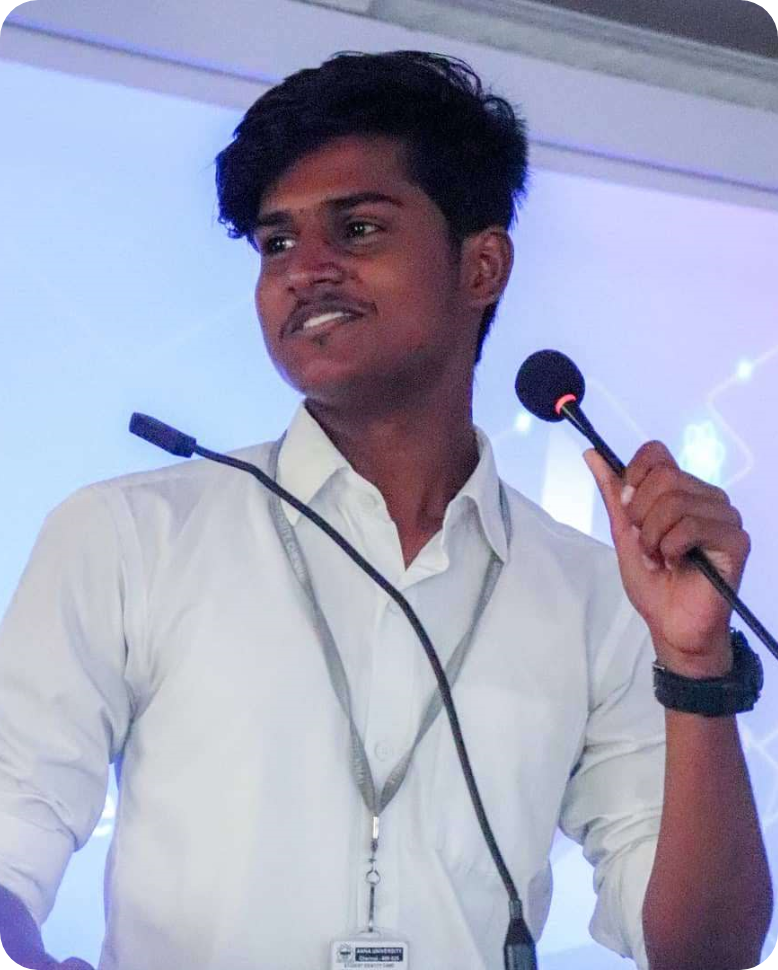
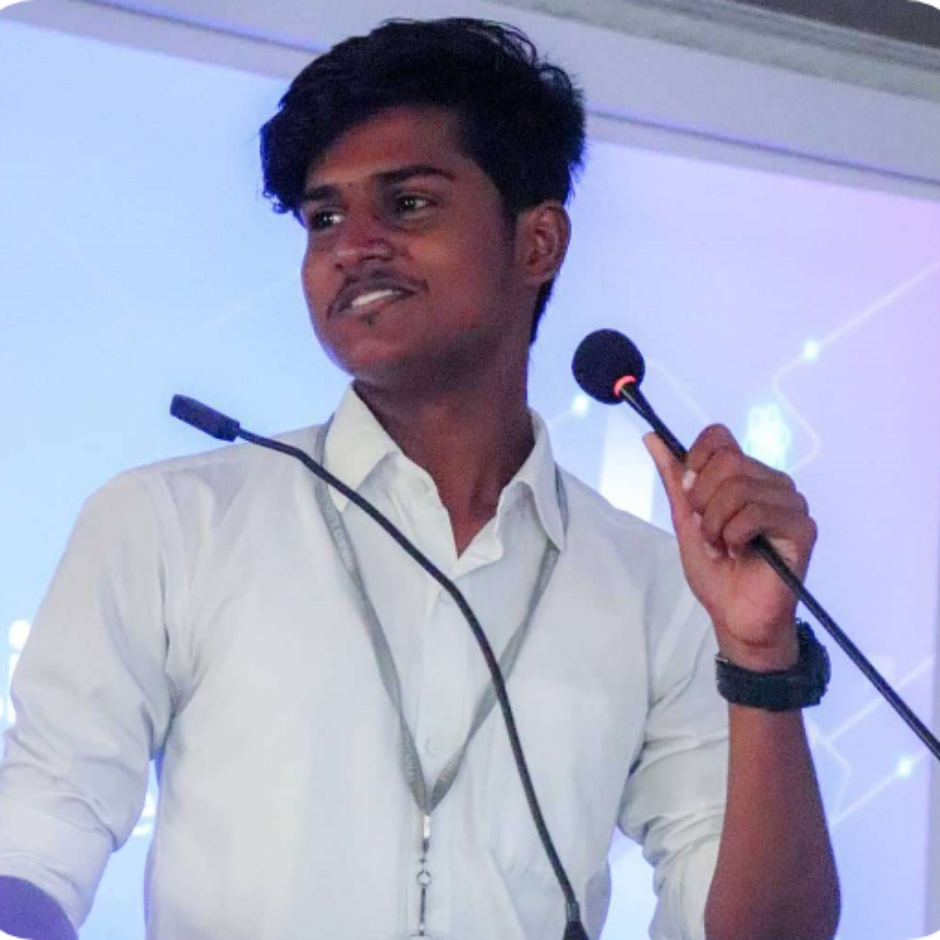
stage-4

diff --git a/src/components/Development.js b/src/components/Development.js
@@ -90,41 +90,143 @@ function Development() {
             </div>
             </div>
             </div>
+            <div className="flex">
+            <div class="flex relative pb-20 sm:items-center md:w-2/3 mx-auto">
+            <div class="h-full w-6 absolute inset-0 flex items-center justify-center">
+                <div class="h-full w-1 bg-gray-200 pointer-events-none"></div>
+            </div>
+            <div class="flex-shrink-0 w-6 h-6 rounded-full mt-10 sm:mt-0 inline-flex items-center justify-center bg-yellow-500 text-white relative z-10 title-font font-medium text-sm">5</div>
+            <div class="flex-grow md:pl-8 pl-6 flex sm:items-center items-start flex-col sm:flex-row">
+                <div class="flex-shrink-0 w-24 h-24 bg-yellow-200 text-yellow-500 rounded-full inline-flex items-center justify-center">
+                <svg width="56" height="56" viewBox="0 0 56 56" fill="none" xmlns="http://www.w3.org/2000/svg">
+                    <g clip-path="url(#clip0)">
+                    <path d="M6.68359 33H14.2852V30.3203H9.37695V21.9805H6.68359V33ZM20.4648 27.6406L21.1689 29.1309H19.7539L20.4648 27.6406ZM17.7441 33L18.5645 31.3252H22.3584L23.1787 33H26.1045L20.7793 21.9941H20.1436L14.832 33H17.7441ZM27.0684 21.9531V33H29.8369V27.2168L36.2764 33H36.8848V21.9531H34.1025V27.7568L27.6494 21.9531H27.0684ZM44.083 21.8916H43.8984C42.2031 21.8916 40.7402 22.4521 39.5508 23.5459C38.4092 24.6396 37.835 25.9727 37.835 27.4971C37.835 29.042 38.4092 30.375 39.5508 31.4482C40.7334 32.5352 42.1963 33.0889 43.8984 33.0889C45.5869 33.0889 47.0498 32.5352 48.2598 31.4414C49.3809 30.3682 50.0986 28.8711 49.9346 26.793L49.9209 26.5811H43.5361V29.0146H46.6943C46.1543 29.7734 45.1357 30.3818 43.9189 30.3818C43.0029 30.3818 42.2373 30.1016 41.6016 29.5342C40.9453 28.9668 40.6309 28.2969 40.6309 27.4971C40.6309 26.7041 40.9453 26.0342 41.6016 25.4668C42.2441 24.8926 43.0029 24.6191 43.9189 24.6191C44.8145 24.6191 45.5801 24.9199 46.2432 25.5352L46.4277 25.7061L48.4443 23.7852L48.2734 23.6211C47.2959 22.7119 45.8604 21.9668 44.0898 21.9189L44.083 21.8916Z" fill="#ECC94B"/>
+                    </g>
+                    <defs>
+                    <clipPath id="clip0">
+                    <rect width="56" height="56" fill="white"/>
+                    </clipPath>
+                    </defs>
+                </svg>
+                </div>
+                <div class="flex-grow sm:pl-6 mt-6 sm:mt-0">
+                <h2 class="font-bold title-font text-gray-900 mb-1 text-xl">Languages</h2>
+                <p class="leading-relaxed">Expertized in Python, JavaScript, Golang</p>
+                </div>
+            </div>
+            </div>
+            <div class="flex relative pb-10 sm:items-center md:w-2/3 mx-auto">
+            <div class="h-full w-6 absolute inset-0 flex items-center justify-center">
+                <div class="h-full w-1 bg-gray-200 pointer-events-none"></div>
+            </div>
+            <div class="flex-shrink-0 w-6 h-6 rounded-full mt-10 sm:mt-0 inline-flex items-center justify-center bg-yellow-500 text-white relative z-10 title-font font-medium text-sm">6</div>
+            <div class="flex-grow md:pl-8 pl-6 flex sm:items-center items-start flex-col sm:flex-row">
+                <div class="flex-shrink-0 w-24 h-24 bg-yellow-200 text-yellow-500 rounded-full inline-flex items-center justify-center">
+                <svg fill="none" stroke="#ECC94B" stroke-linecap="round" stroke-linejoin="round" stroke-width="2" class="w-12 h-12" viewBox="0 0 24 24">
+                    <path d="M12 22s8-4 8-10V5l-8-3-8 3v7c0 6 8 10 8 10z"></path>
+                </svg>
+                </div>
+                <div class="flex-grow sm:pl-6 mt-6 sm:mt-0">
+                <h2 class="font-bold title-font text-gray-900 mb-1 text-xl">Ethical Hacker</h2>
+                <p class="leading-relaxed">Completed CEHv10 Certification</p>
+                </div>
+            </div>
+            </div>
+            </div>
         </div>
         <div className="flex flex-col justify-center items-center w-9/12">
             <h1 className="text-3xl font-bold mb-6">Projects</h1>
             <div className="grid grid-cols-3 gap-8 bg-grey-100 w-full h-64">
                 <div className="col-span-1 bg-yellow-300 rounded-lg overflow-hidden transition duration-500 ease-out hover:shadow-lg transform hover:scale-110">
                     <div className="h-48 overflow-hidden">
+                        <img src={require("../statics/Blog.png")} alt="react-native-blog-app" />
+                    </div>
+                    <div className="flex flex-row justify-between items-center bg-yellow-400 w-full h-20">
+                        <div className="w-8 h-8 ml-5 mb-5 mr-2 rounded-full overflow-hidden">
+                        <svg width="28" height="28" viewBox="0 0 28 28" fill="none" xmlns="http://www.w3.org/2000/svg">
+                            <rect width="28" height="28" rx="14" fill="url(#paint0_linear)"/>
+                            <path d="M14.572 19C15.454 19 16.182 18.748 16.784 18.23C17.386 17.712 17.68 17.054 17.68 16.284C17.68 15.318 17.26 14.576 16.406 14.044C16.994 13.554 17.288 12.924 17.288 12.154C17.288 11.412 17.008 10.796 16.434 10.306C15.86 9.802 15.16 9.55 14.306 9.55H9.7V19H14.572ZM14.558 15.038C15.132 15.038 15.594 15.5 15.594 16.102C15.594 16.704 15.132 17.166 14.558 17.166H11.702V15.038H14.558ZM14.278 11.398C14.824 11.398 15.216 11.79 15.216 12.336C15.216 12.406 15.216 12.448 15.202 12.476C15.146 12.966 14.768 13.288 14.278 13.288H11.702V11.398H14.278Z" fill="white"/>
+                            <defs>
+                            <linearGradient id="paint0_linear" x1="5" y1="2.5" x2="22.5" y2="25.5" gradientUnits="userSpaceOnUse">
+                            <stop stop-color="#FDAE66"/>
+                            <stop offset="1" stop-color="#FB7756"/>
+                            </linearGradient>
+                            </defs>
+                        </svg>
+                        </div>
+                        <p className="mb-5">Blogin</p>
+                        <div className="flex justify-center items-center">
+                            <div className="w-12 h-12 mr-5 mb-5 bg-white flex justify-center items-center rounded-full">
+                            <svg width="28" height="28" viewBox="0 0 28 28" fill="none" xmlns="http://www.w3.org/2000/svg">
+                                <path d="M23.5 10C23.1022 10 22.7206 10.1603 22.4393 10.4457C22.158 10.7311 22 11.1181 22 11.5217V18.4783C22 18.8819 22.158 19.2689 22.4393 19.5543C22.7206 19.8397 23.1022 20 23.5 20C23.8978 20 24.2794 19.8397 24.5607 19.5543C24.842 19.2689 25 18.8819 25 18.4783V11.5217C25 11.1181 24.842 10.7311 24.5607 10.4457C24.2794 10.1603 23.8978 10 23.5 10V10Z" fill="#ECC94B"/>
+                                <path d="M4.5 10C4.10218 10 3.72064 10.1603 3.43934 10.4457C3.15804 10.7311 3 11.1181 3 11.5217V18.4783C3 18.8819 3.15804 19.2689 3.43934 19.5543C3.72064 19.8397 4.10218 20 4.5 20C4.89782 20 5.27936 19.8397 5.56066 19.5543C5.84196 19.2689 6 18.8819 6 18.4783V11.5217C6 11.1181 5.84196 10.7311 5.56066 10.4457C5.27936 10.1603 4.89782 10 4.5 10V10Z" fill="#ECC94B"/>
+                                <path d="M6.5 10V19.9C6.5 20.3376 6.67879 20.7573 6.99703 21.0667C7.31527 21.3762 7.74691 21.55 8.19697 21.55H9.25758V25.0562C9.25758 25.4392 9.41401 25.8064 9.69248 26.0771C9.97094 26.3479 10.3486 26.5 10.7424 26.5C11.1362 26.5 11.5139 26.3479 11.7924 26.0771C12.0708 25.8064 12.2273 25.4392 12.2273 25.0562V21.55H14.7727V25.0562C14.7727 25.4392 14.9292 25.8064 15.2076 26.0771C15.4861 26.3479 15.8638 26.5 16.2576 26.5C16.6514 26.5 17.0291 26.3479 17.3075 26.0771C17.586 25.8064 17.7424 25.4392 17.7424 25.0562V21.55H18.803C19.2531 21.55 19.6847 21.3762 20.003 21.0667C20.3212 20.7573 20.5 20.3376 20.5 19.9V10H6.5Z" fill="#ECC94B"/>
+                                <path d="M20.3026 8.16806C19.8665 6.54049 18.8276 5.15021 17.4258 4.23557C17.3473 4.18445 17.2677 4.13481 17.187 4.08665C17.1064 4.03849 17.0254 3.99126 16.944 3.94495L17.2136 3.4404L18.0567 1.84785C18.0709 1.82094 18.08 1.79134 18.0833 1.76075C18.0866 1.73017 18.0841 1.6992 18.076 1.66962C18.0679 1.64004 18.0542 1.61244 18.0359 1.58838C18.0175 1.56433 17.9949 1.5443 17.9691 1.52945C17.9367 1.51039 17.9002 1.50025 17.863 1.5C17.823 1.49993 17.7838 1.51108 17.7494 1.53228C17.7149 1.55349 17.6866 1.58398 17.6672 1.62058L16.813 3.23481L16.5434 3.74325C16.4585 3.70379 16.3726 3.66656 16.2856 3.63211C16.1986 3.59766 16.1115 3.56154 16.0229 3.52876C14.3918 2.92763 12.6135 2.92763 10.9824 3.52876C10.8939 3.56173 10.8064 3.59618 10.7197 3.63211C10.6327 3.66879 10.5468 3.70602 10.4619 3.74325L10.1923 3.23481L9.3381 1.62336C9.30854 1.57054 9.26044 1.53193 9.20406 1.51576C9.14769 1.49959 9.08751 1.50715 9.03638 1.53682C8.98526 1.56649 8.94724 1.61593 8.93045 1.67456C8.91366 1.7332 8.91943 1.79639 8.94652 1.85063L9.78538 3.4404L10.0549 3.94495C9.9725 3.99015 9.89114 4.03664 9.81085 4.08443C9.73055 4.13222 9.65132 4.1826 9.57314 4.23557C8.1724 5.15021 7.13246 6.54049 6.69738 8.16639C6.57706 8.60018 6.51072 9.04842 6.5 9.5H20.5C20.4891 9.04898 20.4228 8.60131 20.3026 8.16806V8.16806ZM10.316 7.27898C10.19 7.27898 10.0669 7.23987 9.96223 7.16661C9.85753 7.09334 9.77592 6.98919 9.72773 6.86735C9.67954 6.74551 9.66693 6.61144 9.6915 6.48209C9.71606 6.35274 9.7767 6.23393 9.86575 6.14067C9.95479 6.04742 10.0682 5.98391 10.1917 5.95818C10.3153 5.93245 10.4433 5.94566 10.5596 5.99613C10.676 6.0466 10.7754 6.13206 10.8454 6.24172C10.9153 6.35137 10.9527 6.48029 10.9527 6.61218C10.9527 6.78902 10.8856 6.95863 10.7662 7.08368C10.6468 7.20873 10.4848 7.27898 10.316 7.27898ZM16.683 7.27898C16.557 7.27898 16.4339 7.23987 16.3292 7.16661C16.2245 7.09334 16.1429 6.98919 16.0947 6.86735C16.0466 6.74551 16.0339 6.61144 16.0585 6.48209C16.0831 6.35274 16.1437 6.23393 16.2328 6.14067C16.3218 6.04742 16.4353 5.98391 16.5588 5.95818C16.6823 5.93245 16.8103 5.94566 16.9266 5.99613C17.043 6.0466 17.1424 6.13206 17.2124 6.24172C17.2823 6.35137 17.3197 6.48029 17.3197 6.61218C17.3197 6.78902 17.2526 6.95863 17.1332 7.08368C17.0138 7.20873 16.8518 7.27898 16.683 7.27898Z" fill="#ECC94B"/>
+                            </svg>
+                            </div>
+                            <div className="w-12 h-12 mr-5 mb-5 bg-white flex justify-center items-center rounded-full">
+                            <svg width="28" height="28" viewBox="0 0 28 28" fill="none" xmlns="http://www.w3.org/2000/svg">
+                                <path d="M1.61855 20.2991H3.72726V11.4304H1.61855V20.2991V20.2991ZM2.66868 10.2674C3.32924 10.2674 3.84583 9.76536 3.84583 9.13787C3.84583 8.50199 3.32924 8 2.66868 8C2.01659 8 1.5 8.50201 1.5 9.13787C1.5 9.76538 2.01659 10.2674 2.66868 10.2674ZM10.7481 8.02504C7.18286 8.02504 4.94701 10.4263 4.94701 14.2667C4.94701 18.1071 7.18264 20.5 10.7481 20.5C14.3049 20.5 16.5408 18.1071 16.5408 14.2667C16.5408 10.4263 14.3051 8.02504 10.7481 8.02504V8.02504ZM10.7481 9.86573C12.9246 9.86573 14.3134 11.5726 14.3134 14.2667C14.3134 16.9524 12.9245 18.6592 10.7481 18.6592C8.56322 18.6592 7.18286 16.9524 7.18286 14.2667C7.18286 11.5726 8.56326 9.86573 10.7481 9.86573ZM17.4303 16.9022C17.5234 19.1279 19.3696 20.5 22.1812 20.5C25.1368 20.5 27 19.0609 27 16.7684C27 14.9695 25.9499 13.9572 23.4686 13.3966L22.0628 13.0787C20.5638 12.7273 19.9456 12.2587 19.9456 11.4555C19.9456 10.4515 20.8771 9.7822 22.2575 9.7822C23.6549 9.7822 24.6117 10.4599 24.7134 11.5894H26.7967C26.7459 9.46425 24.9675 8.0251 22.2745 8.0251C19.6153 8.0251 17.7267 9.47254 17.7267 11.6145C17.7267 13.338 18.7938 14.409 21.0464 14.9194L22.63 15.2875C24.1713 15.6473 24.798 16.1493 24.798 17.0194C24.798 18.0234 23.7733 18.743 22.2998 18.743C20.8093 18.743 19.6831 18.0151 19.5476 16.9023H17.4304L17.4303 16.9022Z" fill="#ECC94B"/>
+                            </svg>
+                            </div>
+                        </div>
+                    </div>
+                </div>
+                <div className="col-span-1 bg-yellow-300 rounded-lg overflow-hidden transition duration-500 ease-out hover:shadow-lg transform hover:scale-110">
+                    <div className="h-48 overflow-hidden">
                         <img src={require("../statics/dev-infomatte.jpg")} alt="dev-infomatte" />
                     </div>
-                    <div className="flex flex-row justify-start  items-center bg-yellow-400 w-full h-20">
+                    <div className="flex flex-row justify-between  items-center bg-yellow-400 w-full h-20">
                         <div className="w-8 h-8 ml-5 mb-5 mr-2 rounded-full overflow-hidden">
                             <img src="https://avatars2.githubusercontent.com/u/60610891?s=460&u=ba9bbe6fddfbf4ce9a37cfc8bd40d7dde3cee537&v=4" alt="dev-infomatte" />
                         </div>
                         <p className="mb-5">Infomatte.in</p>
+                        <div className="flex justify-center items-center">
+                            <div className="w-12 h-12 mr-5 mb-5 bg-white flex justify-center items-center rounded-full">
+                            <svg width="28" height="28" viewBox="0 0 28 28" fill="none" xmlns="http://www.w3.org/2000/svg">
+                                <path d="M14 1C21.1794 1 27 6.82062 27 14C27 21.1794 21.1794 27 14 27C6.82062 27 1 21.1794 1 14C1 6.82062 6.82062 1 14 1Z" stroke="#ECC94B" stroke-miterlimit="10"/>
+                                <path d="M14 1C17.6078 1 21 6.82062 21 14C21 21.1794 17.6078 27 14 27C10.3922 27 7 21.1794 7 14C7 6.82062 10.3922 1 14 1Z" stroke="#ECC94B" stroke-miterlimit="10"/>
+                                <path d="M23 5C20.5181 6.87933 17.3937 8 14 8C10.6063 8 7.48186 6.87933 5 5" stroke="#ECC94B" stroke-linecap="round" stroke-linejoin="round"/>
+                                <path d="M5 23C7.48186 21.7471 10.6063 21 14 21C17.3937 21 20.5181 21.7471 23 23" stroke="#ECC94B" stroke-linecap="round" stroke-linejoin="round"/>
+                                <path d="M14 1V27" stroke="#ECC94B" stroke-miterlimit="10"/>
+                                <path d="M1 14H27" stroke="#ECC94B" stroke-miterlimit="10"/>
+                            </svg>
+                            </div>
+                        </div>
                     </div>
                 </div>
                 <div className="col-span-1 bg-yellow-300 rounded-lg overflow-hidden transition duration-500 ease-out hover:shadow-lg transform hover:scale-110">
                     <div className="h-48 overflow-hidden">
-                        <img src={require("../statics/dev-infomatte.jpg")} alt="dev-infomatte" />
+                        <img src={require("../statics/Team-Logger.png")} alt="team-logger-desktop-software" />
                     </div>
-                    <div className="flex flex-row justify-start  items-center bg-yellow-400 w-full h-20">
+                    <div className="flex flex-row justify-between  items-center bg-yellow-400 w-full h-20">
                         <div className="w-8 h-8 ml-5 mb-5 mr-2 rounded-full overflow-hidden">
-                            <img src="https://avatars2.githubusercontent.com/u/60610891?s=460&u=ba9bbe6fddfbf4ce9a37cfc8bd40d7dde3cee537&v=4" alt="dev-infomatte" />
+                        <svg width="28" height="28" viewBox="0 0 28 28" fill="none" xmlns="http://www.w3.org/2000/svg">
+                            <rect width="28" height="28" rx="14" fill="url(#paint1_linear)"/>
+                            <path d="M17.8364 18.106C18.8087 18.8975 19.3845 19.6564 19.3845 21.0002" stroke="white" stroke-linecap="round" stroke-linejoin="round"/>
+                            <path d="M10.1636 18.106C9.1913 18.8975 8.61548 19.6561 8.61548 21.0002" stroke="white" stroke-linecap="round" stroke-linejoin="round"/>
+                            <path d="M18.3076 12.3846C19.2799 11.593 19.3845 10.4976 19.3845 9.15381" stroke="white" stroke-linecap="round" stroke-linejoin="round"/>
+                            <path d="M9.6924 12.3173C8.72014 11.5257 8.61548 10.4979 8.61548 9.15381" stroke="white" stroke-linecap="round" stroke-linejoin="round"/>
+                            <path d="M20.9999 15.0815H18.3076" stroke="white" stroke-linecap="round" stroke-linejoin="round"/>
+                            <path d="M9.69231 15.0815H7" stroke="white" stroke-linecap="round" stroke-linejoin="round"/>
+                            <path d="M14 11.8462V20.4616" stroke="white" stroke-linecap="round" stroke-linejoin="round"/>
+                            <path d="M14.0001 20.4615C11.6308 20.4615 9.69238 18.5231 9.69238 16.1538V12.9207C9.69238 10.7309 11.6308 9.68994 14.0001 9.68994C16.3693 9.68994 18.3078 10.5515 18.3078 12.9207V16.1538C18.3078 18.5231 16.3693 20.4615 14.0001 20.4615Z" stroke="white" stroke-linecap="round" stroke-linejoin="round"/>
+                            <path d="M11.423 10.2146C11.3557 10.0457 11.3167 9.86685 11.3076 9.68524C11.3095 8.97364 11.593 8.29173 12.0962 7.78855C12.5993 7.28537 13.2813 7.00187 13.9929 7H14.007C14.7186 7.00187 15.4005 7.28537 15.9037 7.78855C16.4069 8.29173 16.6904 8.97364 16.6922 9.68524C16.6857 9.85057 16.6502 10.0135 16.5872 10.1665" stroke="white" stroke-linecap="round" stroke-linejoin="round"/>
+                            <defs>
+                            <linearGradient id="paint1_linear" x1="5" y1="2.5" x2="22.5" y2="25.5" gradientUnits="userSpaceOnUse">
+                            <stop stop-color="#06FF40"/>
+                            <stop offset="1" stop-color="#00C868"/>
+                            </linearGradient>
+                            </defs>
+                        </svg>
                         </div>
-                        <p className="mb-5">Blogin</p>
-                    </div>
-                </div>
-                <div className="col-span-1 bg-yellow-300 rounded-lg overflow-hidden transition duration-500 ease-out hover:shadow-lg transform hover:scale-110">
-                    <div className="h-48 overflow-hidden">
-                        <img src={require("../statics/dev-infomatte.jpg")} alt="dev-infomatte" />
-                    </div>
-                    <div className="flex flex-row justify-start  items-center bg-yellow-400 w-full h-20">
-                        <div className="w-8 h-8 ml-5 mb-5 mr-2 rounded-full overflow-hidden">
-                            <img src="https://avatars2.githubusercontent.com/u/60610891?s=460&u=ba9bbe6fddfbf4ce9a37cfc8bd40d7dde3cee537&v=4" alt="dev-infomatte" />
+                        <p className="mb-5">Team Logger</p>
+                        <div className="w-12 h-12 mr-5 mb-5 bg-white flex justify-center items-center rounded-full">
+                        <svg width="28" height="28" viewBox="0 0 28 28" fill="none" xmlns="http://www.w3.org/2000/svg">
+                            <path d="M23.3389 4.5H5.16108C4.24369 4.5 3.5 5.25735 3.5 6.19158V18.8084C3.5 19.7427 4.24369 20.5 5.16108 20.5H23.3389C24.2563 20.5 25 19.7427 25 18.8084V6.19158C25 5.25735 24.2563 4.5 23.3389 4.5Z" stroke="#ECC94B" stroke-width="2" stroke-linejoin="round"/>
+                            <path d="M2 21H26.5" stroke="#ECC94B" stroke-width="2" stroke-miterlimit="10" stroke-linecap="round"/>
+                        </svg>
                         </div>
-                        <p className="mb-5">Team Bug Logger</p>
                     </div>
                 </div>
             </div>

diff --git a/src/screens/About.js b/src/screens/About.js
@@ -8,13 +8,14 @@ const images = [
 const About = () => {
     return (
         <div className="grid grid-cols-2 bg-yellow-100 py-32" id="#about">
-            <div className="flex items-center justify-center col-span-1 rounded-md">
-                <div className="w-1/2">
+            <div className="relative flex items-center justify-center col-span-1 rounded-md">
+                <div className="w-1/2 z-30">
                     <img 
                         className="rounded-lg hover:shadow-md" 
                         src={images[0]}
                         alt="gokul-varadan-profile" />
                 </div>
+                <div className="w-1/2 z-0 absolute h-full m-2 border-dashed rounded-lg border-2 border-yellow-300"></div>
             </div>
             <div className="col-span-1 flex flex-col items-start justify-center">
                 <h1 className="text-4xl font-bold mb-5">About</h1>    

diff --git a/src/components/Design.js b/src/components/Design.js
@@ -71,7 +71,7 @@ function Design() {
                     <div className="col-span-2 flex  items-center justify-center bg-yellow-200 rounded-lg overflow-hidden ">
                         <img className="hover:scale-100" src={require("../statics/Give Life.png")} alt="give-life-ngo" />
                     </div>
-                    <div className="col-span-1 flex items-center justify-center bg-yellow-200 rounded-lg overflow-hidden ">
+                    <div className="col-span-1 flex items-center justify-center bg-white rounded-lg overflow-hidden ">
                         <video className="h-full object-cover" autoPlay muted loop>
                             <source src={require("../statics/Blue.mp4")} type="video/mp4" />
                         </video>
